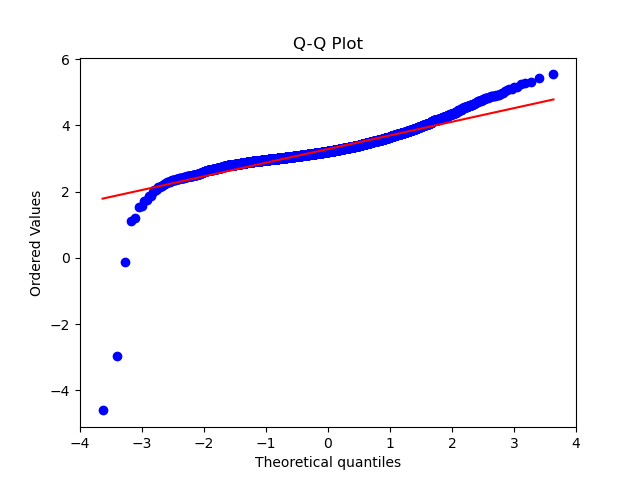
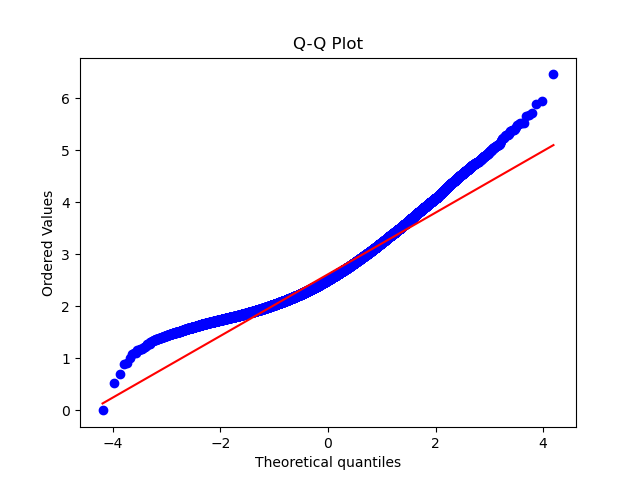
recorded takeaways so far

diff --git a/horse_race.py b/horse_race.py
@@ -16,7 +16,7 @@ import statsmodels.api as sm
 
 np.random.seed(530)
 
-def load_data(*, n=10000, mu=2, sigma=1, num_features=10, ate=10):
+def load_data(*, N=10000, mu=2, sigma=1, num_features=10, ate=10):
     "Create base data."
     # Groundwork
     d = (np.random.uniform(size=N) > 0.5).astype(int)
@@ -52,37 +52,40 @@ def gaussian_qq_plot(yvar, figpath='figures/qq_residuals'):
 
 
 # LOAD DATA #
-data, dgp = load_data(num_features=1)
+data, dgp = load_data(num_features=10)
 resids = residualize_features(data, dgp['features'])
 reg = sm.OLS.from_formula("yresid ~ 1 + dresid", data=data).fit(cov_type='HC3')
-print(reg.summary())
+print(f"Simple Regression ATE: {reg.summary()}")
 
 
 # BAYESIAN HIERARCHICAL MODELS #
 
-# test whether residuals are lognormal
-data['logy'] = np.log(resids['yresid'] - resids['yresid'].min() + 0.01)
-gaussian_qq_plot(data.loc[data['d']==0, 'logy'])
+# compare residuals to a lognormal
+resids = resids.copy()
+resids['logy'] = np.log(resids['yresid'] - resids['yresid'].min() + 1)
+gaussian_qq_plot(resids.loc[data['d']==0, 'logy'])
 
 # run pymc3 model
 with pm.Model() as model:
     alpha = pm.Normal('alpha', mu=0, sigma=100) # very weak priors
     beta = pm.Normal('beta', mu=0, sigma=100)
     mu = alpha + beta*data['d']  # model
-    y_obs = pm.Normal('y_obs', mu=mu, sigma=100, observed=data['logy'])
+    y_obs = pm.Normal('y_obs', mu=mu, sigma=100, observed=data['y'])
+    # TODO: replace with yresid
 
 with model:
     trace = pm.sample(5000, return_inferencedata=True)
 
 # summarize
+print(f"Posterior Summary: \n {az.summary(trace)}")
 az.plot_posterior(trace, var_names=["beta"], hdi_prob=0.94)
 plt.savefig('figures/beta_posterior')
 plt.close()
 
-_posterior_mean = az.summary(trace)['mean']['beta']
-_posterior_sd = az.summary(trace)['sd']['beta']
-_beta = np.exp(_posterior_mean + _posterior_sd**2/2)
-print(_beta)
+# TODO: why is stdev of bayesian method so much wider than stdev of ols?
+# TODO: how would I adapt this to handle a lognormal distribution with a gaussian lift (avoiding <0 errors)?
+
+
 
 
 # R-LEARNER SHRINKAGE #
